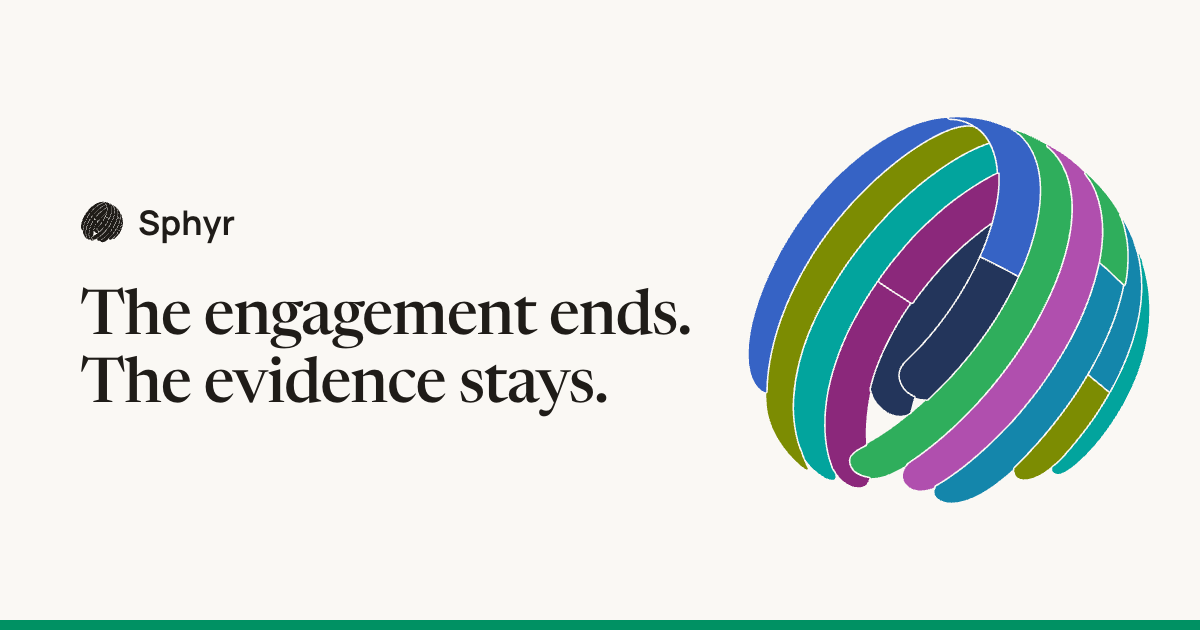
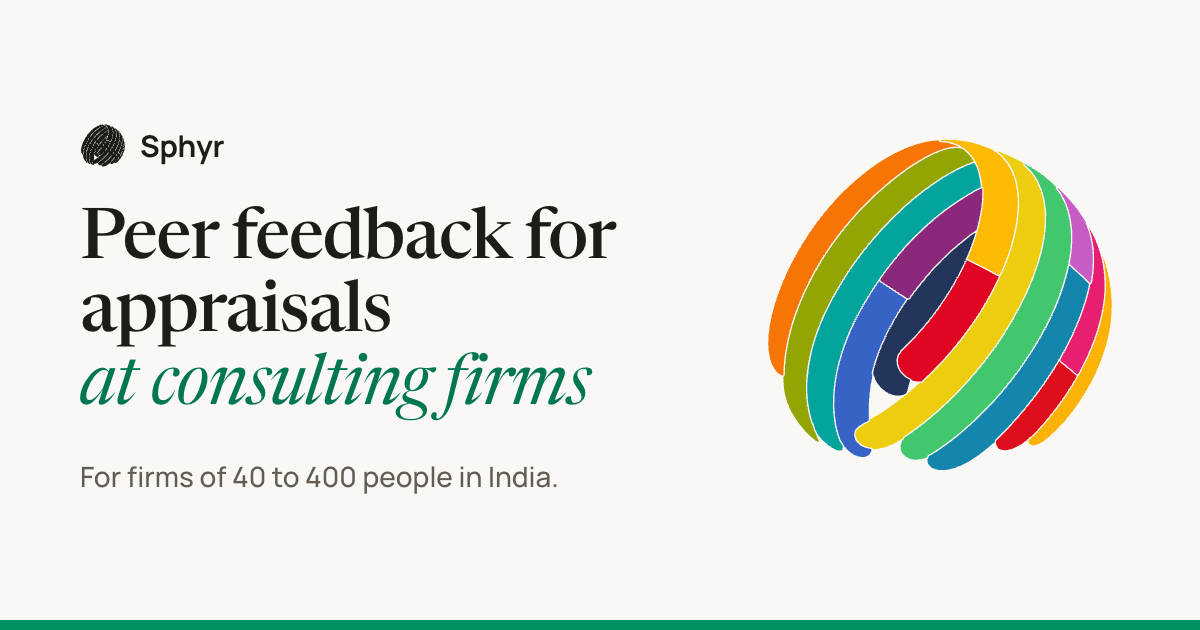
OG image: v3 headline and India line, with HTML source

diff --git a/design-lab/og/og.html b/design-lab/og/og.html
@@ -1,0 +1,33 @@
+<!doctype html>
+<html lang="en" data-theme="light">
+<head>
+<meta charset="utf-8">
+<title>Sphyr link-preview image source (1200 x 630)</title>
+<!-- Source for site/assets/og.png. Render with Playwright at a 1200 x 630 viewport, device scale 1, clip to the canvas. -->
+<link rel="stylesheet" href="../../site/css/base.css">
+<style>
+  html, body { margin: 0; width: 1200px; height: 630px; overflow: hidden; background: var(--bg); }
+  .og { position: relative; width: 1200px; height: 630px; }
+  .copy { position: absolute; left: 80px; top: 0; bottom: 10px; width: 660px; display: flex; flex-direction: column; justify-content: center; }
+  .og .brand { gap: 14px; font-size: 30px; }
+  .og .brand svg { width: 46px; height: 46px; }
+  .og h1 { margin: 36px 0 0; font-size: 70px; line-height: 1.04; letter-spacing: -0.02em; color: var(--text); text-wrap: nowrap; }
+  .og h1 em { color: var(--link); }
+  .sub { margin: 30px 0 0; font-size: 28px; font-weight: 500; color: var(--text-muted); }
+  .sphere { position: absolute; right: 80px; top: 125px; width: 360px; height: 360px; }
+  .rule { position: absolute; left: 0; right: 0; bottom: 0; height: 10px; background: var(--brand); }
+</style>
+</head>
+<body>
+<div class="og">
+  <div class="copy">
+    <span class="brand"><svg class="mark mark--mono" viewBox="0 0 1254 1254" aria-hidden="true"><use href="../../site/assets/sphyr-mark.svg#mark"/></svg>Sphyr</span>
+    <h1>Peer feedback for<br>appraisals<br><em>at consulting firms</em></h1>
+    <p class="sub">For firms of 40 to 400 people in India.</p>
+  </div>
+  <!-- Same recoloured symbol and paper gaps as the home hero (.mark--strands in site/css/motif.css). -->
+  <svg class="sphere mark" viewBox="0 0 1254 1254" aria-hidden="true" style="--rib-gap: var(--bg); --rib-gap-w: 8;"><use href="../../site/assets/sphyr-mark.svg#mark"/></svg>
+  <div class="rule"></div>
+</div>
+</body>
+</html>
